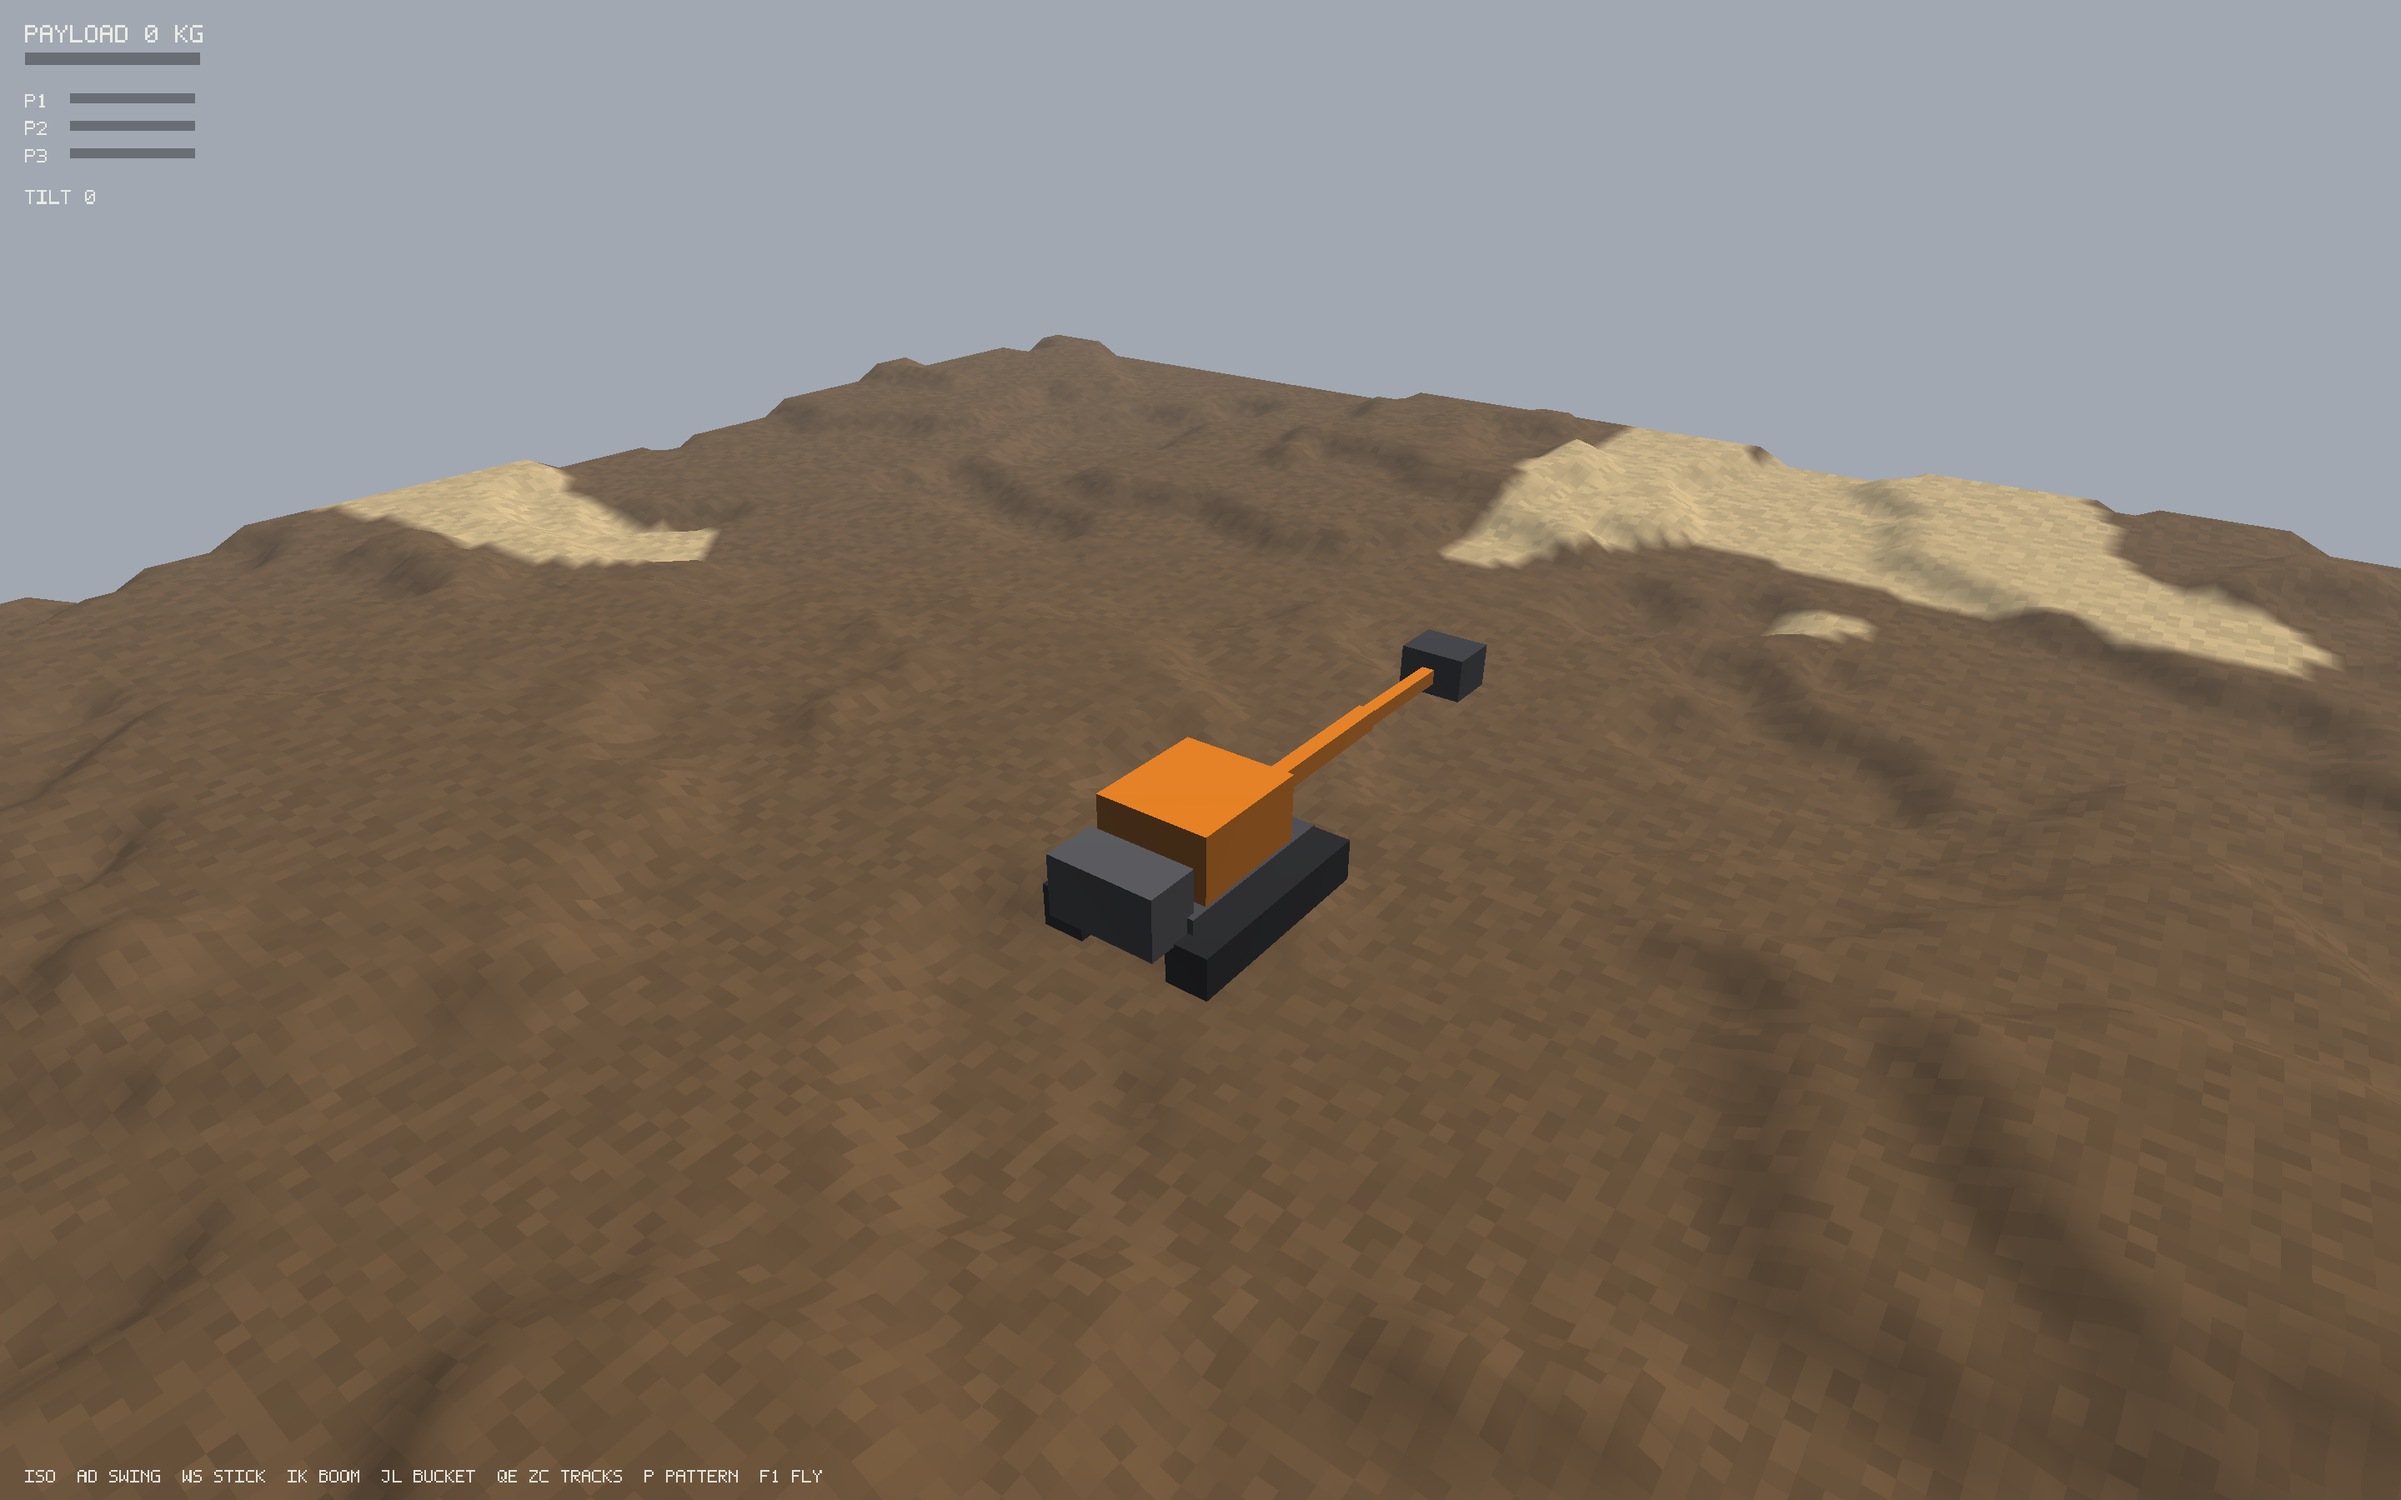
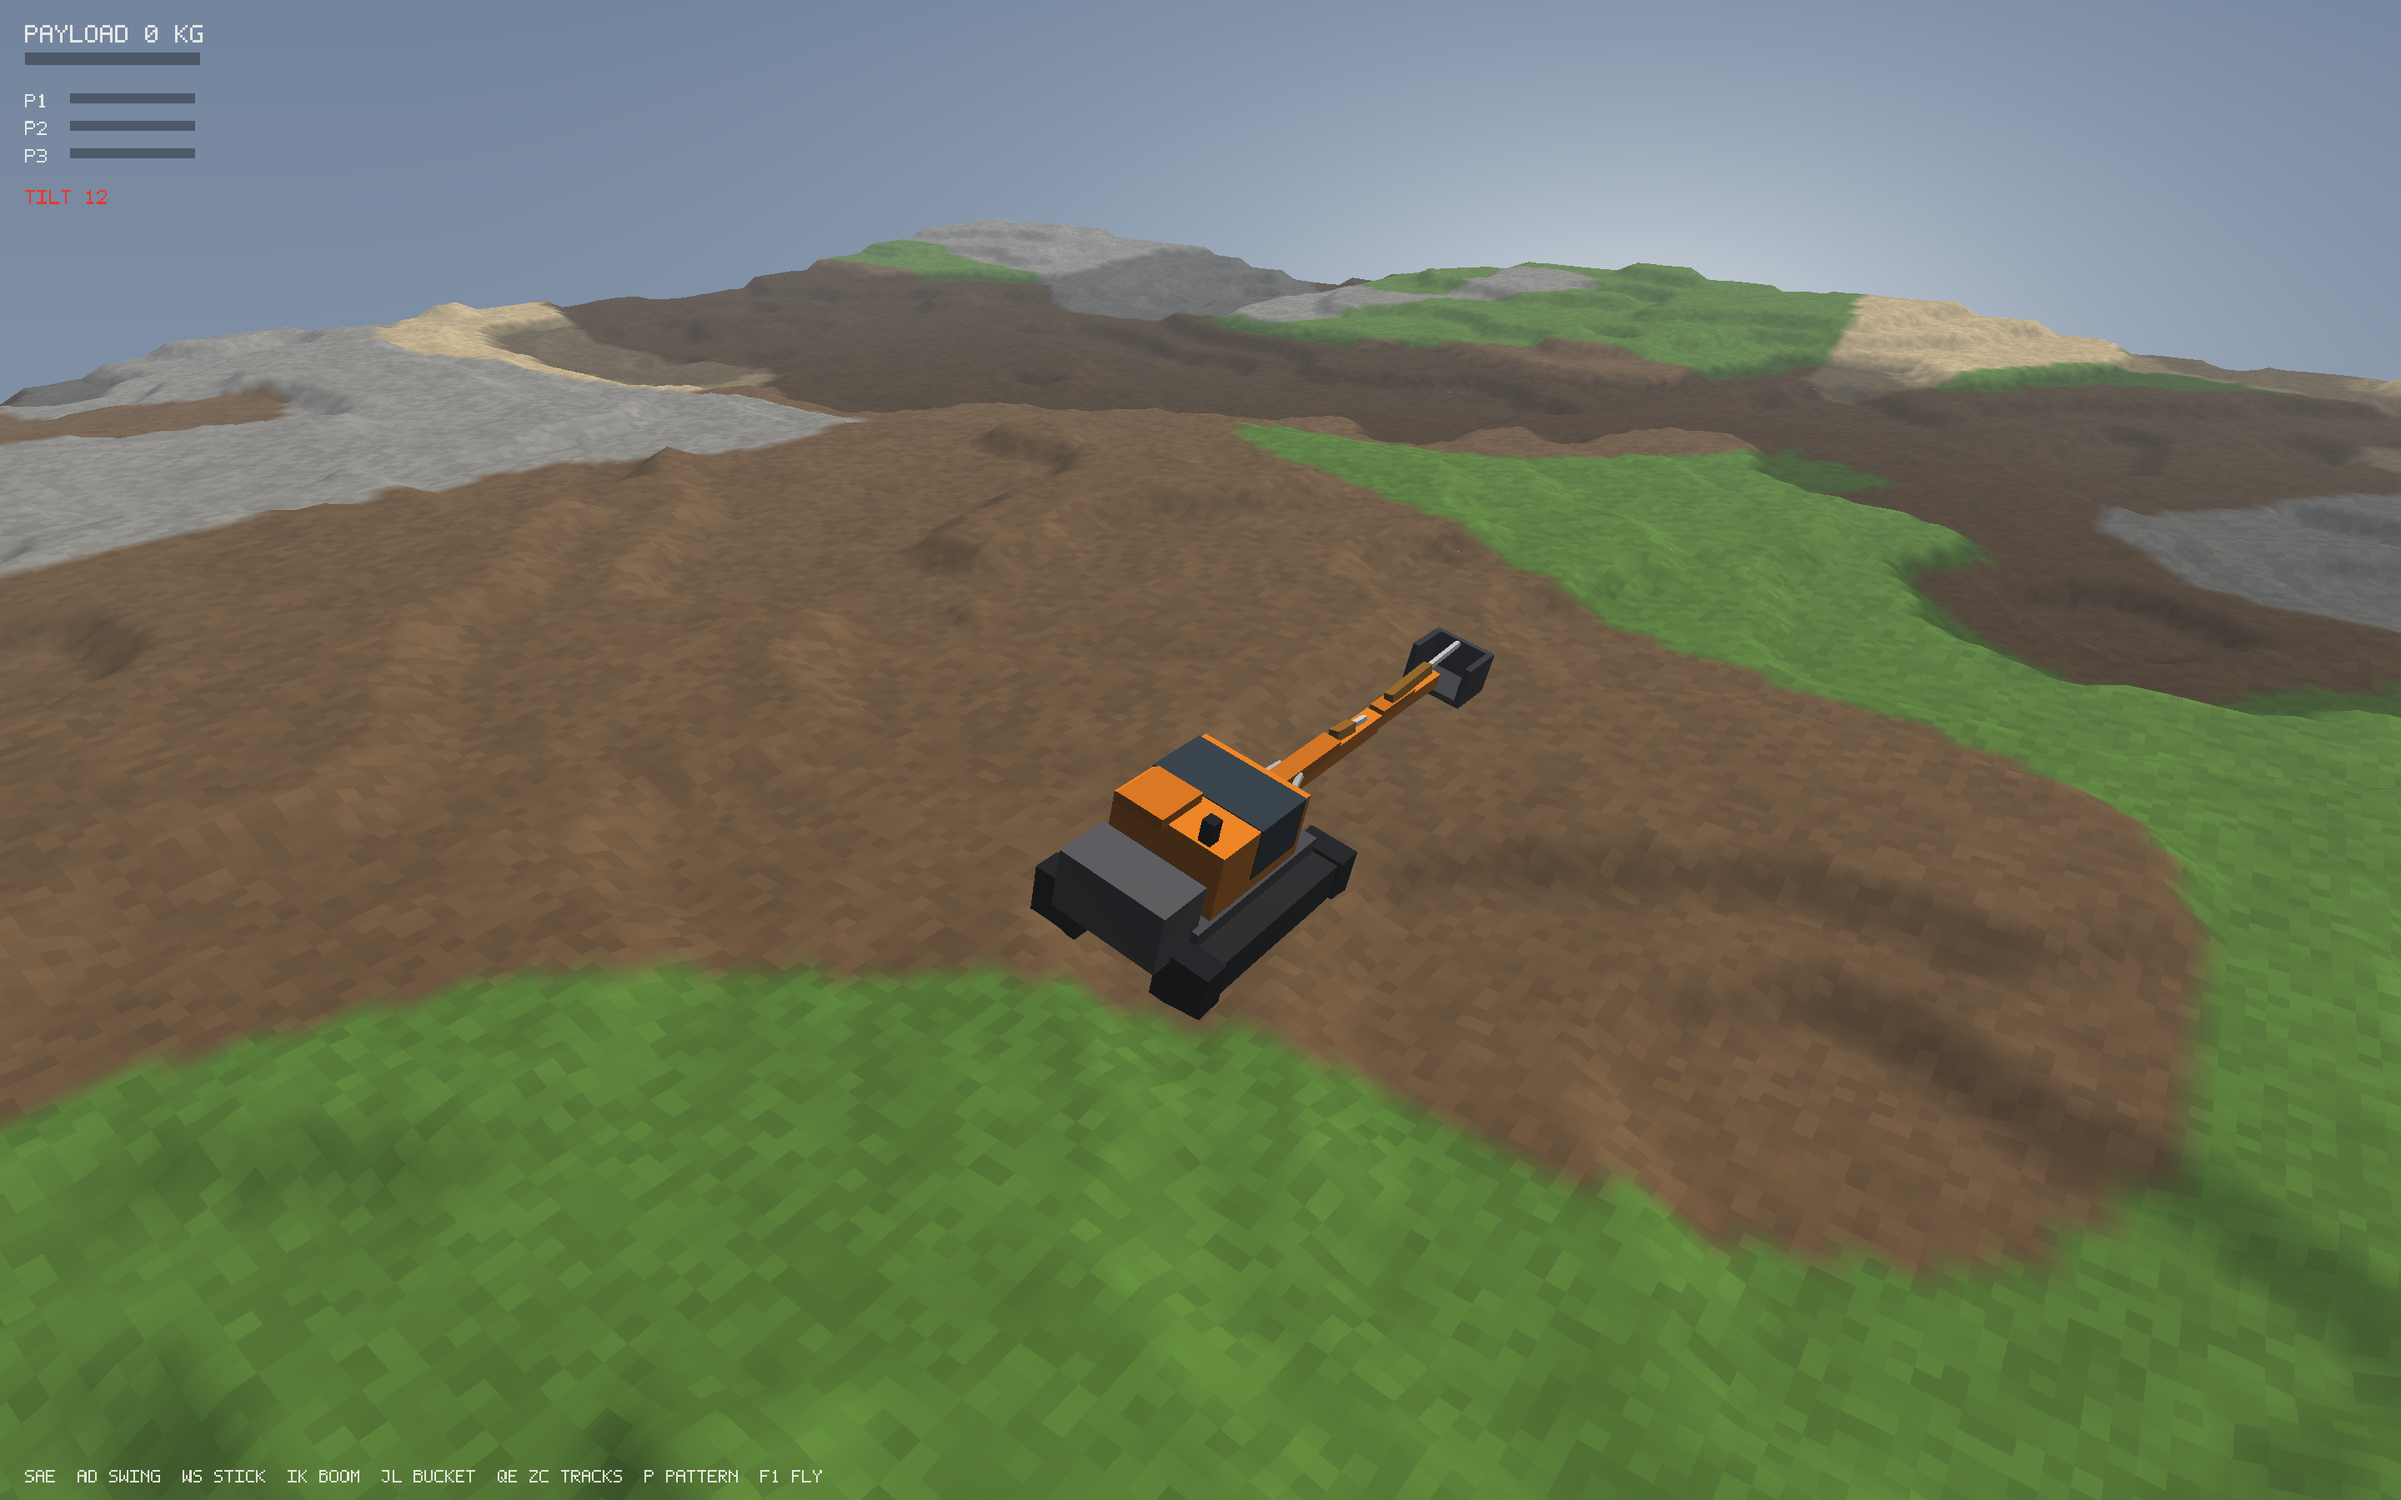
High-detail rendering + deferred items closed
- Terrain render mesh at 2× column resolution: bilinear-smoothed heights,
  deterministic world-space micro-noise, curvature-darkened crevices,
  material colors blended across boundaries (collision unchanged)
- Machine visuals: cab glass, engine hood, exhaust, track idlers/sprockets,
  boom/stick flanges, and WORKING hydraulic cylinder visuals — barrel+rod
  beams stretched between anchor points on the interpolated part poses
- Clods/rocks: icosphere (one subdivision, 80 faces); gradient sky with sun
  glow via a bufferless fullscreen triangle
- Renderer implements IDisposable (F9 reload leak closed); terrain
  landforms broadened (dig site, not the Alps)
- 58 tests + Release perf/alloc gates green; README screenshot from this
  build

diff --git a/docs/decisions.md b/docs/decisions.md
@@ -24,3 +24,18 @@ SPEC lists `Soil/Api.fs` above `Soil/Volume.fs`, but F# compile order forbids
 a facade before the types it re-exposes. The seam survives as the LAST soil
 file (`Soil/Api.fs` defining the `Soil` module); the rule stands: `Sim.fs` and
 `Excavator/*` call only the `Soil` facade, never chunk internals.
+
+## 2026-08-29 — Deferred items closed
+
+- **Moisture dynamics**: implemented as a water-table model (Soil/Moisture.fs)
+  — moisture is a property of the ground, wicking up and evaporating, driving
+  effective cohesion (capillary sandcastle bell, clay saturation weakening).
+- **Compound bucket**: open-plate dynamic compound (bottom/back/sides);
+  opening faces −X so curl swings it up. Cradles bodies, scoops loose clumps
+  into the payload.
+- **Renderer GL leak on F9 load**: Renderer implements IDisposable; the load
+  path disposes before rebuilding.
+- **Surface Nets**: still not used — the render mesh is now a 2×-subdivided,
+  bilinearly smoothed heightfield with micro-noise and crevice AO, which
+  delivers the smooth-dirt goal Surface Nets was for. The soil model remains
+  2.5D columns; Surface Nets only earns its place if overhangs ever exist.

diff --git a/README.md b/README.md
@@ -58,7 +58,8 @@ format that accounts for every kilogram before it lets you quit.
 
 ## Status
 
-Playable sandbox, built in the open. macOS, Windows, and Linux.
+A 64×64 m sandbox of grass meadows, sand, gravel, wet lowlands, and clay —
+playable and built in the open. macOS, Windows, and Linux.
 `just run` starts it; F1 toggles a free camera with a terrain-sculpting
 brush; F5/F9 save and load; `--machine 320` brings the big iron.
 
